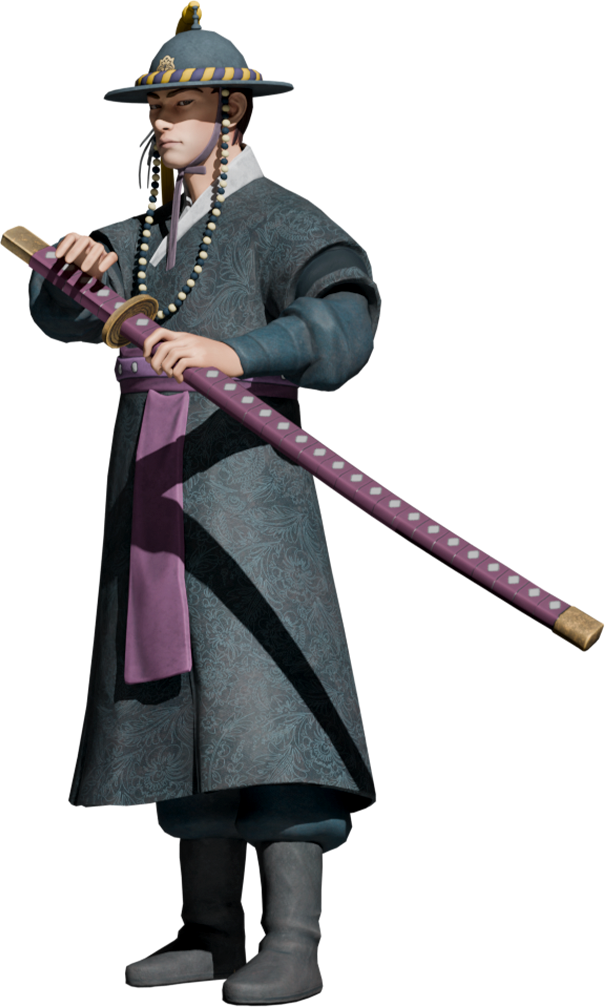
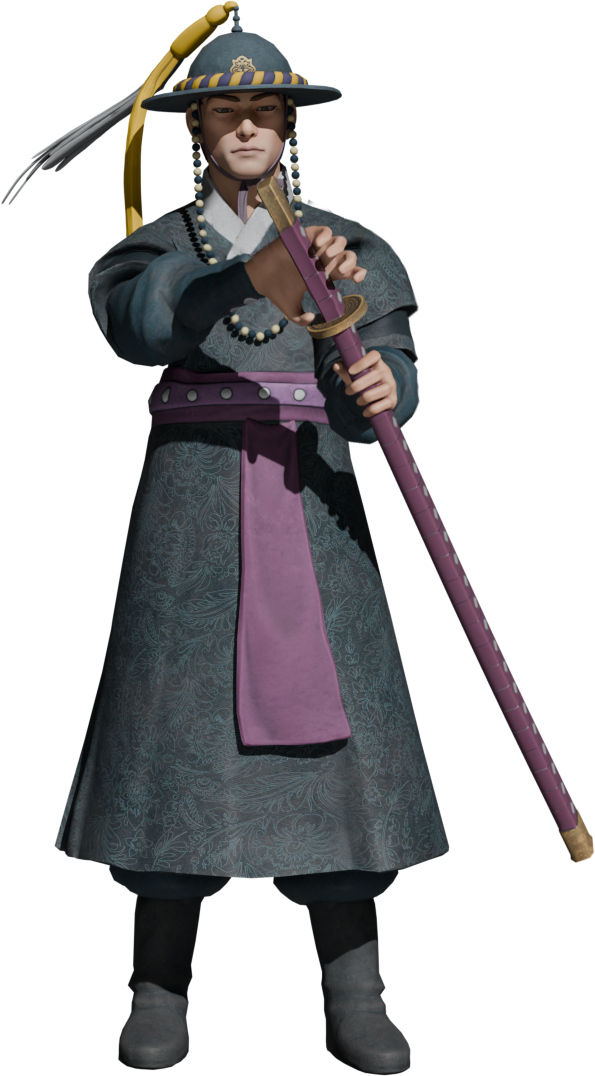
rotate

diff --git a/js/webar.js b/js/webar.js
@@ -405,7 +405,7 @@ class WebARExperience {
     const img = document.getElementById('camera-speech-image');
     const charId = (window.characterData && window.characterData.id) || this.getCharacterId();
     if (bubble && img) {
-      const src = `./assets/characters/c${charId}_before.png`;
+      const src = this.getCharacterImageFilename('before', charId);
       // 이미지가 로드된 뒤에 강제로 표시 (모바일 표시 안정화)
       const showBubble = () => {
         bubble.classList.add('show');
@@ -1590,7 +1590,7 @@ class WebARExperience {
     const img = document.getElementById('result-speech-image');
     const charId = (window.characterData && window.characterData.id) || this.getCharacterId();
     if (bubble && img) {
-      const src = `./assets/characters/c${charId}_after.png`;
+      const src = this.getCharacterImageFilename('after', charId);
       
       // 애니메이션 제거
       bubble.style.animation = 'none';
@@ -1728,6 +1728,17 @@ class WebARExperience {
     return parseInt(urlParams.get('char')) || 1;
   }
   
+  // 가로 모드 감지 함수
+  isLandscapeMode() {
+    return window.innerWidth > window.innerHeight;
+  }
+  
+  // 캐릭터 이미지 파일명 생성 (가로/세로 모드에 따라)
+  getCharacterImageFilename(prefix, charId) {
+    const suffix = this.isLandscapeMode() ? '_rotate' : '';
+    return `./assets/characters/c${charId}_${prefix}${suffix}.png`;
+  }
+  
   hideOriginalElements() {
     // 원래 화면의 요소들 숨기기
     this.hideCharacterGuide();
@@ -1784,9 +1795,9 @@ class WebARExperience {
     const cameraSpeechImage = document.getElementById('camera-speech-image');
     if (cameraSpeechImage) {
       const charId = (window.characterData && window.characterData.id) || this.getCharacterId();
-      const beforeSrc = `./assets/characters/c${charId}_before.png`;
+      const beforeSrc = this.getCharacterImageFilename('before', charId);
       // 현재 _after.png인 경우 _before.png로 변경
-      if (cameraSpeechImage.src.includes('_after.png')) {
+      if (cameraSpeechImage.src.includes('_after')) {
         cameraSpeechImage.src = beforeSrc + '?t=' + Date.now();
       }
     }
@@ -2840,22 +2851,40 @@ class OrientationManager {
     // 초기 방향 확인
     this.checkOrientation();
     
-    // Screen Orientation API로 방향 고정 시도 (지원되는 경우)
-    this.lockOrientation();
+    // 가로 모드 지원하므로 방향 고정하지 않음
+    // this.lockOrientation();
     
     // 방향 변경 감지
     window.addEventListener('orientationchange', () => {
       setTimeout(() => {
         this.checkOrientation();
-        // 고정이 해제되었을 수 있으므로 다시 고정 시도
-        if (!this.isLocked) {
-          this.lockOrientation();
-        }
+        // 가로 모드 지원하므로 방향 고정 제거
       }, 100);
     });
     
     window.addEventListener('resize', () => {
       this.checkOrientation();
+      // 방향 변경 시 말풍선 이미지 업데이트
+      if (window.webarInstance) {
+        const cameraSpeechImage = document.getElementById('camera-speech-image');
+        const resultSpeechImage = document.getElementById('result-speech-image');
+        
+        if (cameraSpeechImage && cameraSpeechImage.src) {
+          const charId = (window.characterData && window.characterData.id) || window.webarInstance.getCharacterId();
+          const newSrc = window.webarInstance.getCharacterImageFilename('before', charId);
+          if (!cameraSpeechImage.src.includes(newSrc.split('/').pop())) {
+            cameraSpeechImage.src = newSrc + '?t=' + Date.now();
+          }
+        }
+        
+        if (resultSpeechImage && resultSpeechImage.src) {
+          const charId = (window.characterData && window.characterData.id) || window.webarInstance.getCharacterId();
+          const newSrc = window.webarInstance.getCharacterImageFilename('after', charId);
+          if (!resultSpeechImage.src.includes(newSrc.split('/').pop())) {
+            resultSpeechImage.src = newSrc + '?t=' + Date.now();
+          }
+        }
+      }
     });
   }
   
@@ -2863,100 +2892,107 @@ class OrientationManager {
     const isLandscape = window.innerWidth > window.innerHeight;
     const isMobile = /Android|webOS|iPhone|iPad|iPod|BlackBerry|IEMobile|Opera Mini/i.test(navigator.userAgent);
     
-    // 가로 모드일 때 말풍선 숨기기
-    const speechBubbles = document.querySelectorAll('.speech-bubble');
-    if (isLandscape && isMobile) {
-      speechBubbles.forEach(bubble => {
-        bubble.style.display = 'none';
-        bubble.style.visibility = 'hidden';
-        bubble.style.opacity = '0';
-      });
-    } else {
-      speechBubbles.forEach(bubble => {
-        // show 클래스가 있는 경우에만 표시
-        if (bubble.classList.contains('show')) {
-          bubble.style.display = '';
-          bubble.style.visibility = '';
-          bubble.style.opacity = '';
+    // 가로 모드에서도 말풍선 표시 (rotate 이미지 사용)
+    // 말풍선 이미지 업데이트가 필요한 경우 업데이트
+    if (window.webarInstance) {
+      const cameraSpeechImage = document.getElementById('camera-speech-image');
+      const resultSpeechImage = document.getElementById('result-speech-image');
+      
+      // 카메라 말풍선 이미지 업데이트
+      if (cameraSpeechImage && cameraSpeechImage.src) {
+        const charId = (window.characterData && window.characterData.id) || window.webarInstance.getCharacterId();
+        const newSrc = window.webarInstance.getCharacterImageFilename('before', charId);
+        if (!cameraSpeechImage.src.includes(newSrc.split('/').pop())) {
+          cameraSpeechImage.src = newSrc + '?t=' + Date.now();
         }
-      });
+      }
+      
+      // 결과 말풍선 이미지 업데이트
+      if (resultSpeechImage && resultSpeechImage.src) {
+        const charId = (window.characterData && window.characterData.id) || window.webarInstance.getCharacterId();
+        const newSrc = window.webarInstance.getCharacterImageFilename('after', charId);
+        if (!resultSpeechImage.src.includes(newSrc.split('/').pop())) {
+          resultSpeechImage.src = newSrc + '?t=' + Date.now();
+        }
+      }
     }
     
     if (this.orientationWarning) {
-      // 가로 모드이고 방향 고정이 안 된 경우 경고 표시
-      if (isLandscape && isMobile && !this.isLocked) {
-        this.orientationWarning.classList.add('show');
-      } else {
-        this.orientationWarning.classList.remove('show');
-      }
+      // 가로 모드 경고는 더 이상 표시하지 않음 (가로 모드 지원)
+      this.orientationWarning.classList.remove('show');
     }
   }
   
   async lockOrientation() {
+    // 가로 모드 지원하므로 방향 고정 비활성화
     // Screen Orientation API 지원 확인 및 세로 모드 고정 시도
-    if (screen.orientation && screen.orientation.lock) {
-      try {
-        await screen.orientation.lock('portrait');
-        this.isLocked = true;
-        console.log('화면 방향이 세로 모드로 고정되었습니다.');
-        // 고정 성공 시 경고 숨김
-        if (this.orientationWarning) {
-          this.orientationWarning.classList.remove('show');
-        }
-      } catch (error) {
-        // 방향 고정 실패 (일부 브라우저/기기에서는 제한됨)
-        this.isLocked = false;
-        console.log('화면 방향 고정을 지원하지 않거나 실패:', error);
-        // 실패 시 방향 확인하여 경고 표시
-        this.checkOrientation();
-      }
-    } else if (screen.lockOrientation) {
-      // 구형 API 지원
-      try {
-        screen.lockOrientation('portrait');
-        this.isLocked = true;
-        console.log('화면 방향이 세로 모드로 고정되었습니다.');
-        if (this.orientationWarning) {
-          this.orientationWarning.classList.remove('show');
-        }
-      } catch (error) {
-        this.isLocked = false;
-        console.log('화면 방향 고정을 지원하지 않거나 실패:', error);
-        this.checkOrientation();
-      }
-    } else if (screen.mozLockOrientation) {
-      // Firefox 지원
-      try {
-        screen.mozLockOrientation('portrait');
-        this.isLocked = true;
-        console.log('화면 방향이 세로 모드로 고정되었습니다.');
-        if (this.orientationWarning) {
-          this.orientationWarning.classList.remove('show');
-        }
-      } catch (error) {
-        this.isLocked = false;
-        console.log('화면 방향 고정을 지원하지 않거나 실패:', error);
-        this.checkOrientation();
-      }
-    } else if (screen.msLockOrientation) {
-      // IE/Edge 지원
-      try {
-        screen.msLockOrientation('portrait');
-        this.isLocked = true;
-        console.log('화면 방향이 세로 모드로 고정되었습니다.');
-        if (this.orientationWarning) {
-          this.orientationWarning.classList.remove('show');
-        }
-      } catch (error) {
-        this.isLocked = false;
-        console.log('화면 방향 고정을 지원하지 않거나 실패:', error);
-        this.checkOrientation();
-      }
-    } else {
-      // API를 지원하지 않는 경우
-      this.isLocked = false;
-      this.checkOrientation();
-    }
+    // if (screen.orientation && screen.orientation.lock) {
+    //   try {
+    //     await screen.orientation.lock('portrait');
+    //     this.isLocked = true;
+    //     console.log('화면 방향이 세로 모드로 고정되었습니다.');
+    //     // 고정 성공 시 경고 숨김
+    //     if (this.orientationWarning) {
+    //       this.orientationWarning.classList.remove('show');
+    //     }
+    //   } catch (error) {
+    //     // 방향 고정 실패 (일부 브라우저/기기에서는 제한됨)
+    //     this.isLocked = false;
+    //     console.log('화면 방향 고정을 지원하지 않거나 실패:', error);
+    //     // 실패 시 방향 확인하여 경고 표시
+    //     this.checkOrientation();
+    //   }
+    // } else if (screen.lockOrientation) {
+    //   // 구형 API 지원
+    //   try {
+    //     screen.lockOrientation('portrait');
+    //     this.isLocked = true;
+    //     console.log('화면 방향이 세로 모드로 고정되었습니다.');
+    //     if (this.orientationWarning) {
+    //       this.orientationWarning.classList.remove('show');
+    //     }
+    //   } catch (error) {
+    //     this.isLocked = false;
+    //     console.log('화면 방향 고정을 지원하지 않거나 실패:', error);
+    //     this.checkOrientation();
+    //   }
+    // } else if (screen.mozLockOrientation) {
+    //   // Firefox 지원
+    //   try {
+    //     screen.mozLockOrientation('portrait');
+    //     this.isLocked = true;
+    //     console.log('화면 방향이 세로 모드로 고정되었습니다.');
+    //     if (this.orientationWarning) {
+    //       this.orientationWarning.classList.remove('show');
+    //     }
+    //   } catch (error) {
+    //     this.isLocked = false;
+    //     console.log('화면 방향 고정을 지원하지 않거나 실패:', error);
+    //     this.checkOrientation();
+    //   }
+    // } else if (screen.msLockOrientation) {
+    //   // IE/Edge 지원
+    //   try {
+    //     screen.msLockOrientation('portrait');
+    //     this.isLocked = true;
+    //     console.log('화면 방향이 세로 모드로 고정되었습니다.');
+    //     if (this.orientationWarning) {
+    //       this.orientationWarning.classList.remove('show');
+    //     }
+    //   } catch (error) {
+    //     this.isLocked = false;
+    //     console.log('화면 방향 고정을 지원하지 않거나 실패:', error);
+    //     this.checkOrientation();
+    //   }
+    // } else {
+    //   // API를 지원하지 않는 경우
+    //   this.isLocked = false;
+    //   this.checkOrientation();
+    // }
+    
+    // 가로 모드 지원하므로 방향 고정하지 않음
+    this.isLocked = false;
+    this.checkOrientation();
   }
 }
 

diff --git a/css/style.css b/css/style.css
@@ -1082,14 +1082,7 @@
     will-change: transform, opacity, top;
   }
   
-  /* 가로 모드에서 말풍선 숨기기 */
-  @media (orientation: landscape) {
-    .speech-bubble {
-      display: none !important;
-      opacity: 0 !important;
-      visibility: hidden !important;
-    }
-  }
+  /* 가로 모드에서도 말풍선 표시 (rotate 이미지 사용) */
   
   .speech-bubble.show {
     transform: translateX(-50%) translateY(0);
